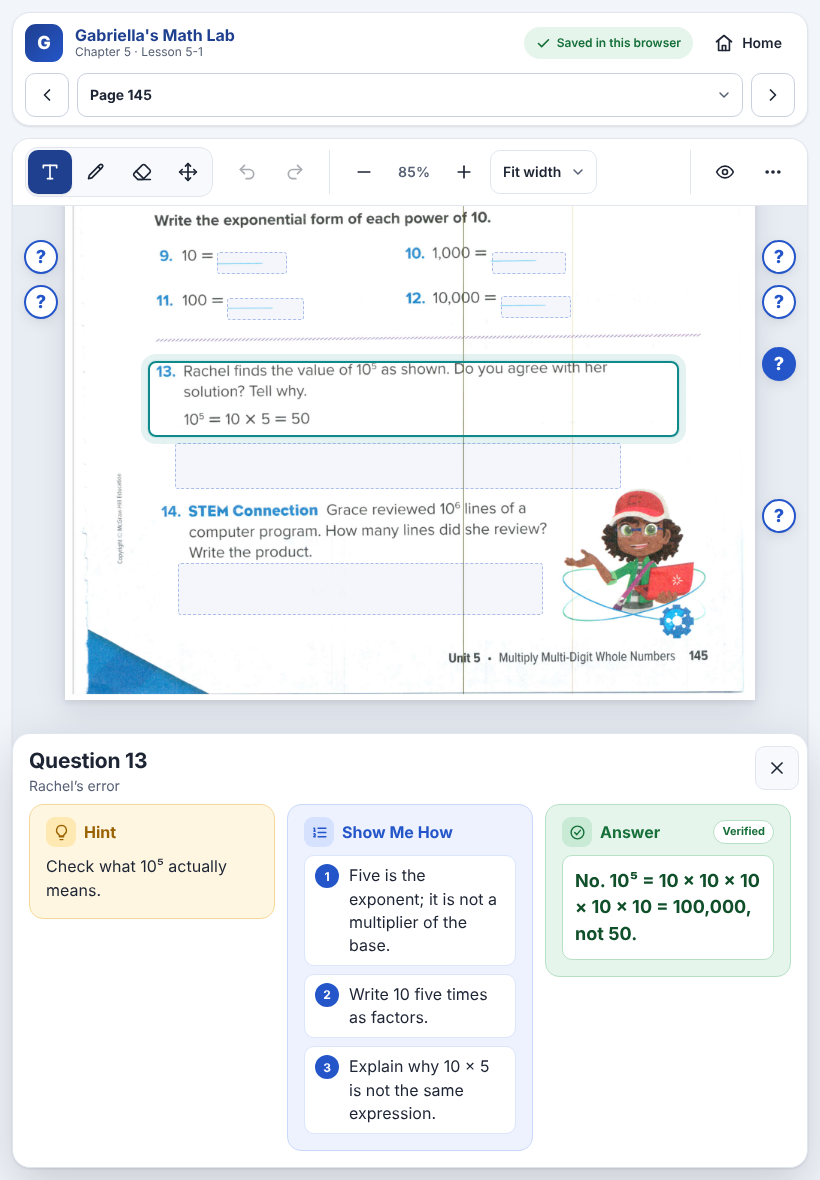
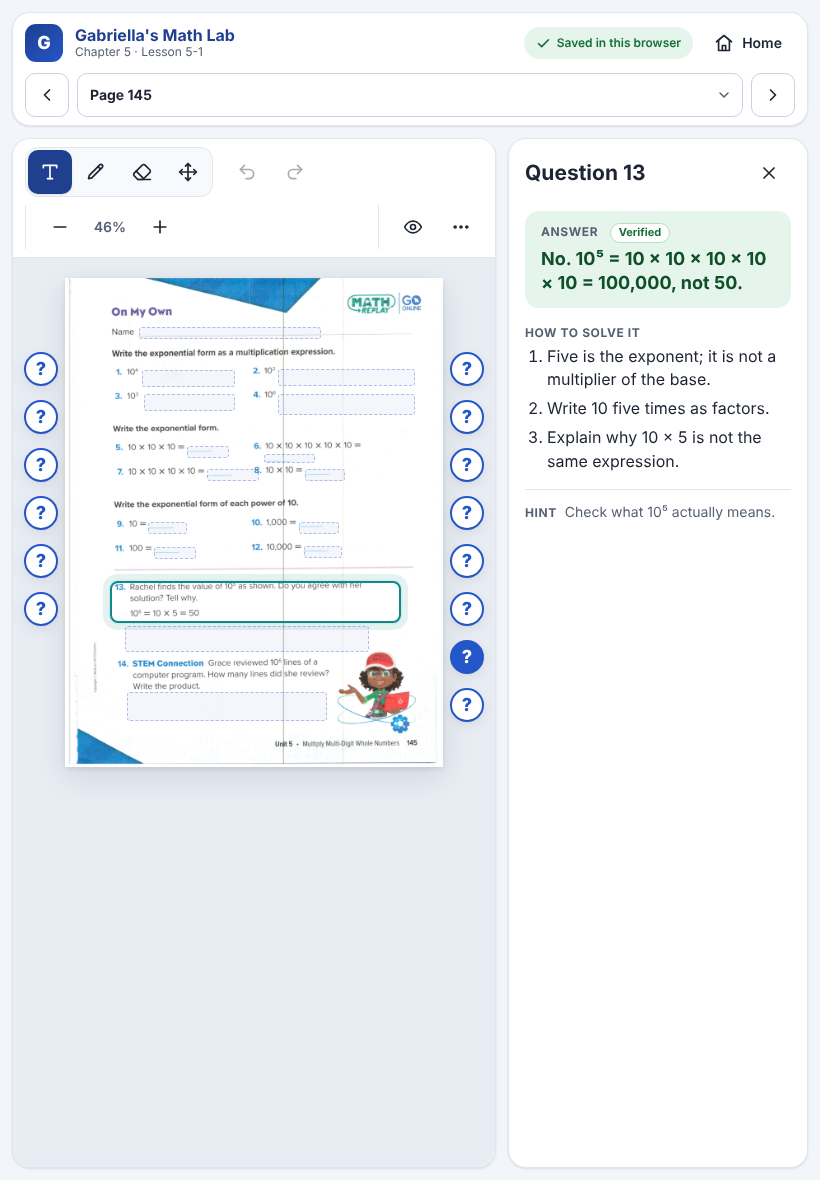
GML-006: Show the solution in a right-hand pane
Per owner feedback, tapping a ? opens the answer, steps and hint in a pane on
the right of the page instead of a card over the page. The page shrinks to
fit beside it. Phones (760px and narrower) keep a bottom sheet because a
side pane does not fit.

Lesson 5-1 browser suite: 77 checks pass (adds a check that the pane sits
beside the page, not over it).

Claude-Session: https://claude.ai/code/session_018dbFcDMd4vdEjZrPDaWnnM

diff --git a/lesson-5-1/style.css b/lesson-5-1/style.css
@@ -195,18 +195,18 @@ body[data-mode=pen] .response, body[data-mode=eraser] .response, body[data-mode=
 body[data-mode=pan] #viewer { cursor: grab; touch-action: none; }
 body.original .layer { visibility: hidden; }
 
-/* 6. Solution card (one plain card) -------------------------------------- */
-.help { position: fixed; z-index: 30; left: 50%; transform: translateX(-50%); bottom: var(--s-3); width: min(600px, calc(100vw - 24px)); max-height: 36dvh; overflow: auto; overscroll-behavior: contain; padding: var(--s-2) var(--s-4) var(--s-4); box-shadow: var(--shadow-lg); display: grid; gap: var(--s-3); }
+/* 6. Solution pane (right side) ------------------------------------------- */
+.workspace { flex: 1; min-height: 0; display: flex; gap: var(--s-3); }
+.help { flex: none; width: 360px; min-height: 0; overflow: auto; overscroll-behavior: contain; padding: var(--s-3) var(--s-4) var(--s-4); display: flex; flex-direction: column; gap: var(--s-4); }
 .help-head { display: flex; align-items: center; justify-content: space-between; gap: var(--s-3); }
-.help-head h2 { font-size: var(--fs-lg); font-weight: 740; outline: none; }
-.help-label { display: block; font-size: var(--fs-xs); font-weight: 700; letter-spacing: .05em; text-transform: uppercase; color: var(--c-ink-2); }
-.help-answer { display: grid; gap: 2px; padding: var(--s-3) var(--s-4); border-radius: var(--r-md); background: var(--c-ok-soft); }
-.help-answer strong { font-size: var(--fs-xl); color: #0f4f29; overflow-wrap: anywhere; }
+.help-head h2 { font-size: var(--fs-xl); font-weight: 740; outline: none; }
+.help-label { display: block; font-size: var(--fs-xs); font-weight: 700; letter-spacing: .05em; text-transform: uppercase; color: var(--c-ink-2); margin-bottom: 4px; }
+.help-answer { padding: var(--s-3) var(--s-4); border-radius: var(--r-md); background: var(--c-ok-soft); }
+.help-answer strong { display: block; font-size: var(--fs-lg); line-height: 1.35; color: #0f4f29; overflow-wrap: anywhere; }
 .badge { display: inline-block; margin-left: var(--s-2); font-size: 11px; padding: 1px 8px; border-radius: var(--r-pill); background: #fff; color: var(--c-ok); border: 1px solid var(--c-ok-line); text-transform: none; letter-spacing: 0; }
 .badge:empty { display: none; }
-.help-how { display: grid; gap: var(--s-1); }
-.help-how ol { margin: 0; padding-left: 22px; display: grid; gap: 4px; }
-.help-hint { color: var(--c-ink-2); font-size: var(--fs-sm); }
+.help-how ol { margin: 0; padding-left: 22px; display: grid; gap: 6px; }
+.help-hint { color: var(--c-ink-2); font-size: var(--fs-sm); padding-top: var(--s-3); border-top: 1px solid var(--c-border); }
 .help-hint .help-label { display: inline; margin-right: 4px; }
 
 /* 7. Dialogs ------------------------------------------------------------- */
@@ -251,9 +251,13 @@ dialog::backdrop { background: rgb(15 23 42 / .38); }
   .tool-end { margin-left: 0; }
   .menu-card { position: fixed; right: var(--s-2); left: var(--s-2); top: auto; width: auto; bottom: var(--s-2); max-height: 70dvh; overflow: auto; }
   #viewer { padding: var(--s-3) var(--gutter) calc(var(--s-3) + var(--help-h)); }
-  .help { bottom: 0; width: 100vw; border-radius: var(--r-lg) var(--r-lg) 0 0; max-height: 52dvh; padding-bottom: calc(var(--s-4) + env(safe-area-inset-bottom, 0px)); }
 }
 @media (max-width: 380px) { .brand-text { display: none; } }
+/* Tablets: narrower pane. Phones: the pane becomes a bottom sheet. */
+@media (max-width: 1100px) { .help { width: 300px; } }
+@media (max-width: 760px) {
+  .help { position: fixed; z-index: 30; left: 0; right: 0; bottom: 0; width: auto; max-height: 52dvh; border-radius: var(--r-lg) var(--r-lg) 0 0; box-shadow: var(--shadow-lg); padding-bottom: calc(var(--s-4) + env(safe-area-inset-bottom, 0px)); }
+}
 
 @media (prefers-reduced-motion: reduce) {
   *, *::before, *::after { transition: none !important; animation: none !important; }

diff --git a/lesson-5-1/index.html b/lesson-5-1/index.html
@@ -55,6 +55,7 @@
   </div>
 </header>
 
+<div class="workspace">
 <!-- The textbook -->
 <section class="card book-card" aria-label="Textbook">
   <div class="toolbar" role="toolbar" aria-label="Writing and reading tools">
@@ -97,7 +98,7 @@
   <main id="viewer" aria-label="Textbook workspace" tabindex="-1"><div id="stage"></div></main>
 </section>
 
-<!-- Solution card: appears at the bottom when a ? is tapped -->
+<!-- Solution pane: opens on the right when a ? is tapped -->
 <section id="help" class="card help" role="region" aria-labelledby="helpTitle" hidden>
   <div class="help-head">
     <h2 id="helpTitle" tabindex="-1">Question</h2>
@@ -111,6 +112,7 @@
   <p class="help-hint"><span class="help-label">Hint</span> <span id="hint"></span></p>
   <p id="helpDetail" hidden></p>
 </section>
+</div>
 
 <dialog id="clearDialog" class="card confirm" aria-labelledby="clearTitle">
   <h2 id="clearTitle">Clear this page?</h2>

diff --git a/lesson-5-1/app.js b/lesson-5-1/app.js
@@ -173,7 +173,8 @@ try {
     $('help').scrollTop = 0;
     $('help').hidden = false;
     document.body.classList.add('help-open');
-    document.body.style.setProperty('--help-h', ($('help').offsetHeight + 12) + 'px');
+    // Only the phone bottom sheet overlaps the page; reserve room under the page for it.
+    if (getComputedStyle($('help')).position === 'fixed') document.body.style.setProperty('--help-h', ($('help').offsetHeight + 12) + 'px');
     applyZoom(); highlight(q, true);
     $('helpTitle').focus({ preventScroll: true });
   }

diff --git a/docs/gml-006/REPORT.md b/docs/gml-006/REPORT.md
@@ -7,11 +7,11 @@ The owner asked for it to be simple: no left pane, no right pane, and a question
 
 - **Top bar:** title, Previous / page selector / Next, save status, Home.
 - **Textbook card:** the full width of the screen. One toolbar: Type, Pencil, Eraser, Pan, Undo, Redo, Zoom, Original only, and a More menu (save, print, backup, restore, reset zoom, clear page).
-- **A "?" beside each problem** (in the margin, never on the artwork). Tapping it outlines the problem on the page and opens a card at the bottom with Hint, Show Me How and Answer, all visible. Close with the X or Escape; focus returns to that "?".
+- **A "?" beside each problem** (in the margin, never on the artwork). Tapping it outlines the problem on the page and opens the solution in a pane on the right of the page: the answer, the numbered steps, then a one-line hint. Tapping another "?" swaps the content. Close with the X or Escape; focus returns to that "?".
 - **Original only** hides every "?" and the outline.
-- On phones the "?" buttons are spaced so they never overlap, and the card is a bottom sheet.
+- On phones (760px and narrower) there is no room for a right-hand pane, so the solution opens as a bottom sheet. The "?" buttons are spaced so they never overlap.
 
-Removed from the earlier version: the left navigation card, the questions list, the right-hand panel, "I finished this question" ticks, and the lesson selector. Saved "finished" data in existing browsers is left untouched.
+Removed from the earlier version: the left navigation card, the questions list, "I finished this question" ticks, and the lesson selector. Saved "finished" data in existing browsers is left untouched.
 
 ## Unchanged
 Source PDF and page renders, all 25 question entries, storage format `gml:lesson-5-1:v2`, ink, backup/restore and printing (four original pages with the student's work, no app UI).
@@ -20,7 +20,7 @@ Source PDF and page renders, all 25 question entries, storage format `gml:lesson
 | Suite | Result |
 |---|---|
 | `npm test` | 272 / 272 |
-| `test:lesson51:browser` | 76 / 76 |
+| `test:lesson51:browser` | 77 / 77 |
 
 The Lesson 5-1 suite has fewer checks than before because the question-list, completion and side-panel checks no longer apply. It still covers all four pages, all 25 "?" buttons, handwriting, typing, undo/redo, zoom and pan alignment, backup/restore, printing, browser history and resume, and 44px touch targets at 320-1440px with no overflow.
 

diff --git a/lesson-5-1/README.md b/lesson-5-1/README.md
@@ -13,7 +13,7 @@ Open `lesson-5-1/index.html` through any static HTTP server. No build step or ru
 - `lib/storage.js`: versioned persistence, nondestructive import of legacy Lesson 5-1 work, backup validation.
 - `app.js`, `index.html`, `style.css`: controller and card-based responsive UI (GML-006). Design tokens live at the top of `style.css`.
 
-Layout (GML-006): a top bar (title, page navigation, save status) and the textbook card with one compact toolbar. A "?" button in the page margin, outside the artwork, sits beside each problem. Tapping it outlines the problem with a non-destructive overlay and opens a bottom card with the Hint, Show Me How steps and Answer. Original only hides every overlay. See `docs/gml-006/REPORT.md`.
+Layout (GML-006): a top bar (title, page navigation, save status) and the textbook card with one compact toolbar. A "?" button in the page margin, outside the artwork, sits beside each problem. Tapping it outlines the problem with a non-destructive overlay and opens the answer, steps and hint in a pane on the right of the page (a bottom sheet on phones). Original only hides every overlay. See `docs/gml-006/REPORT.md`.
 
 ## Work and recovery
 
